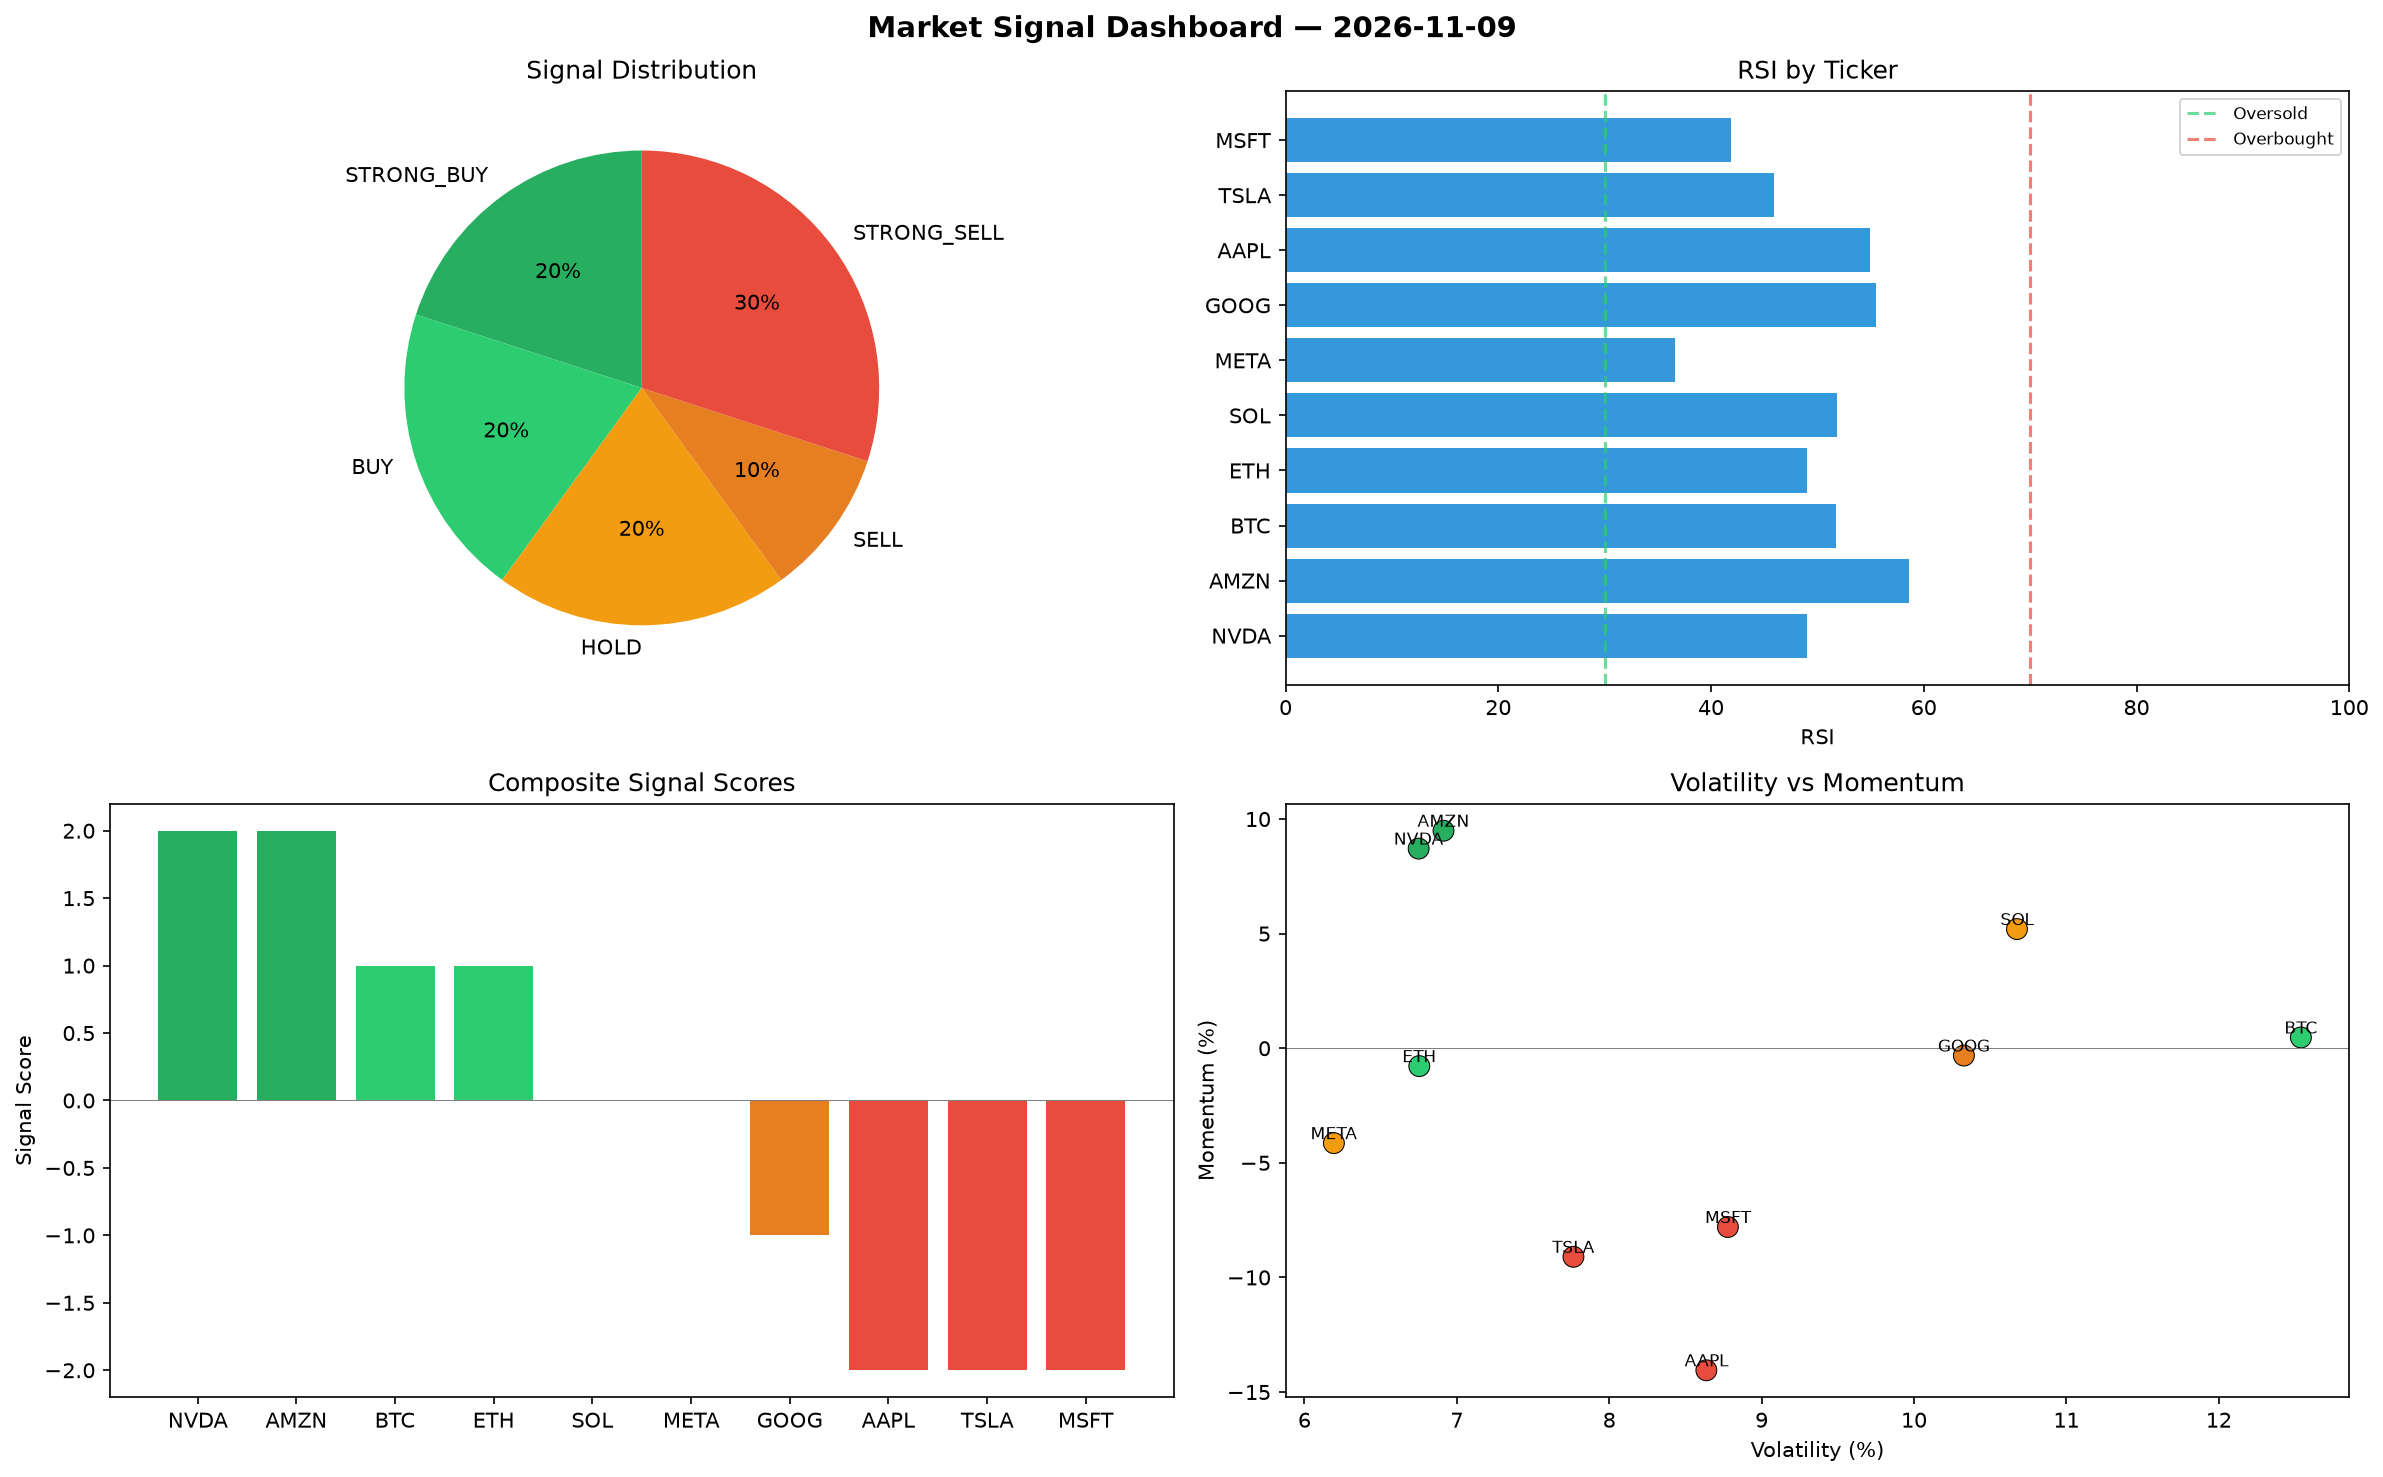
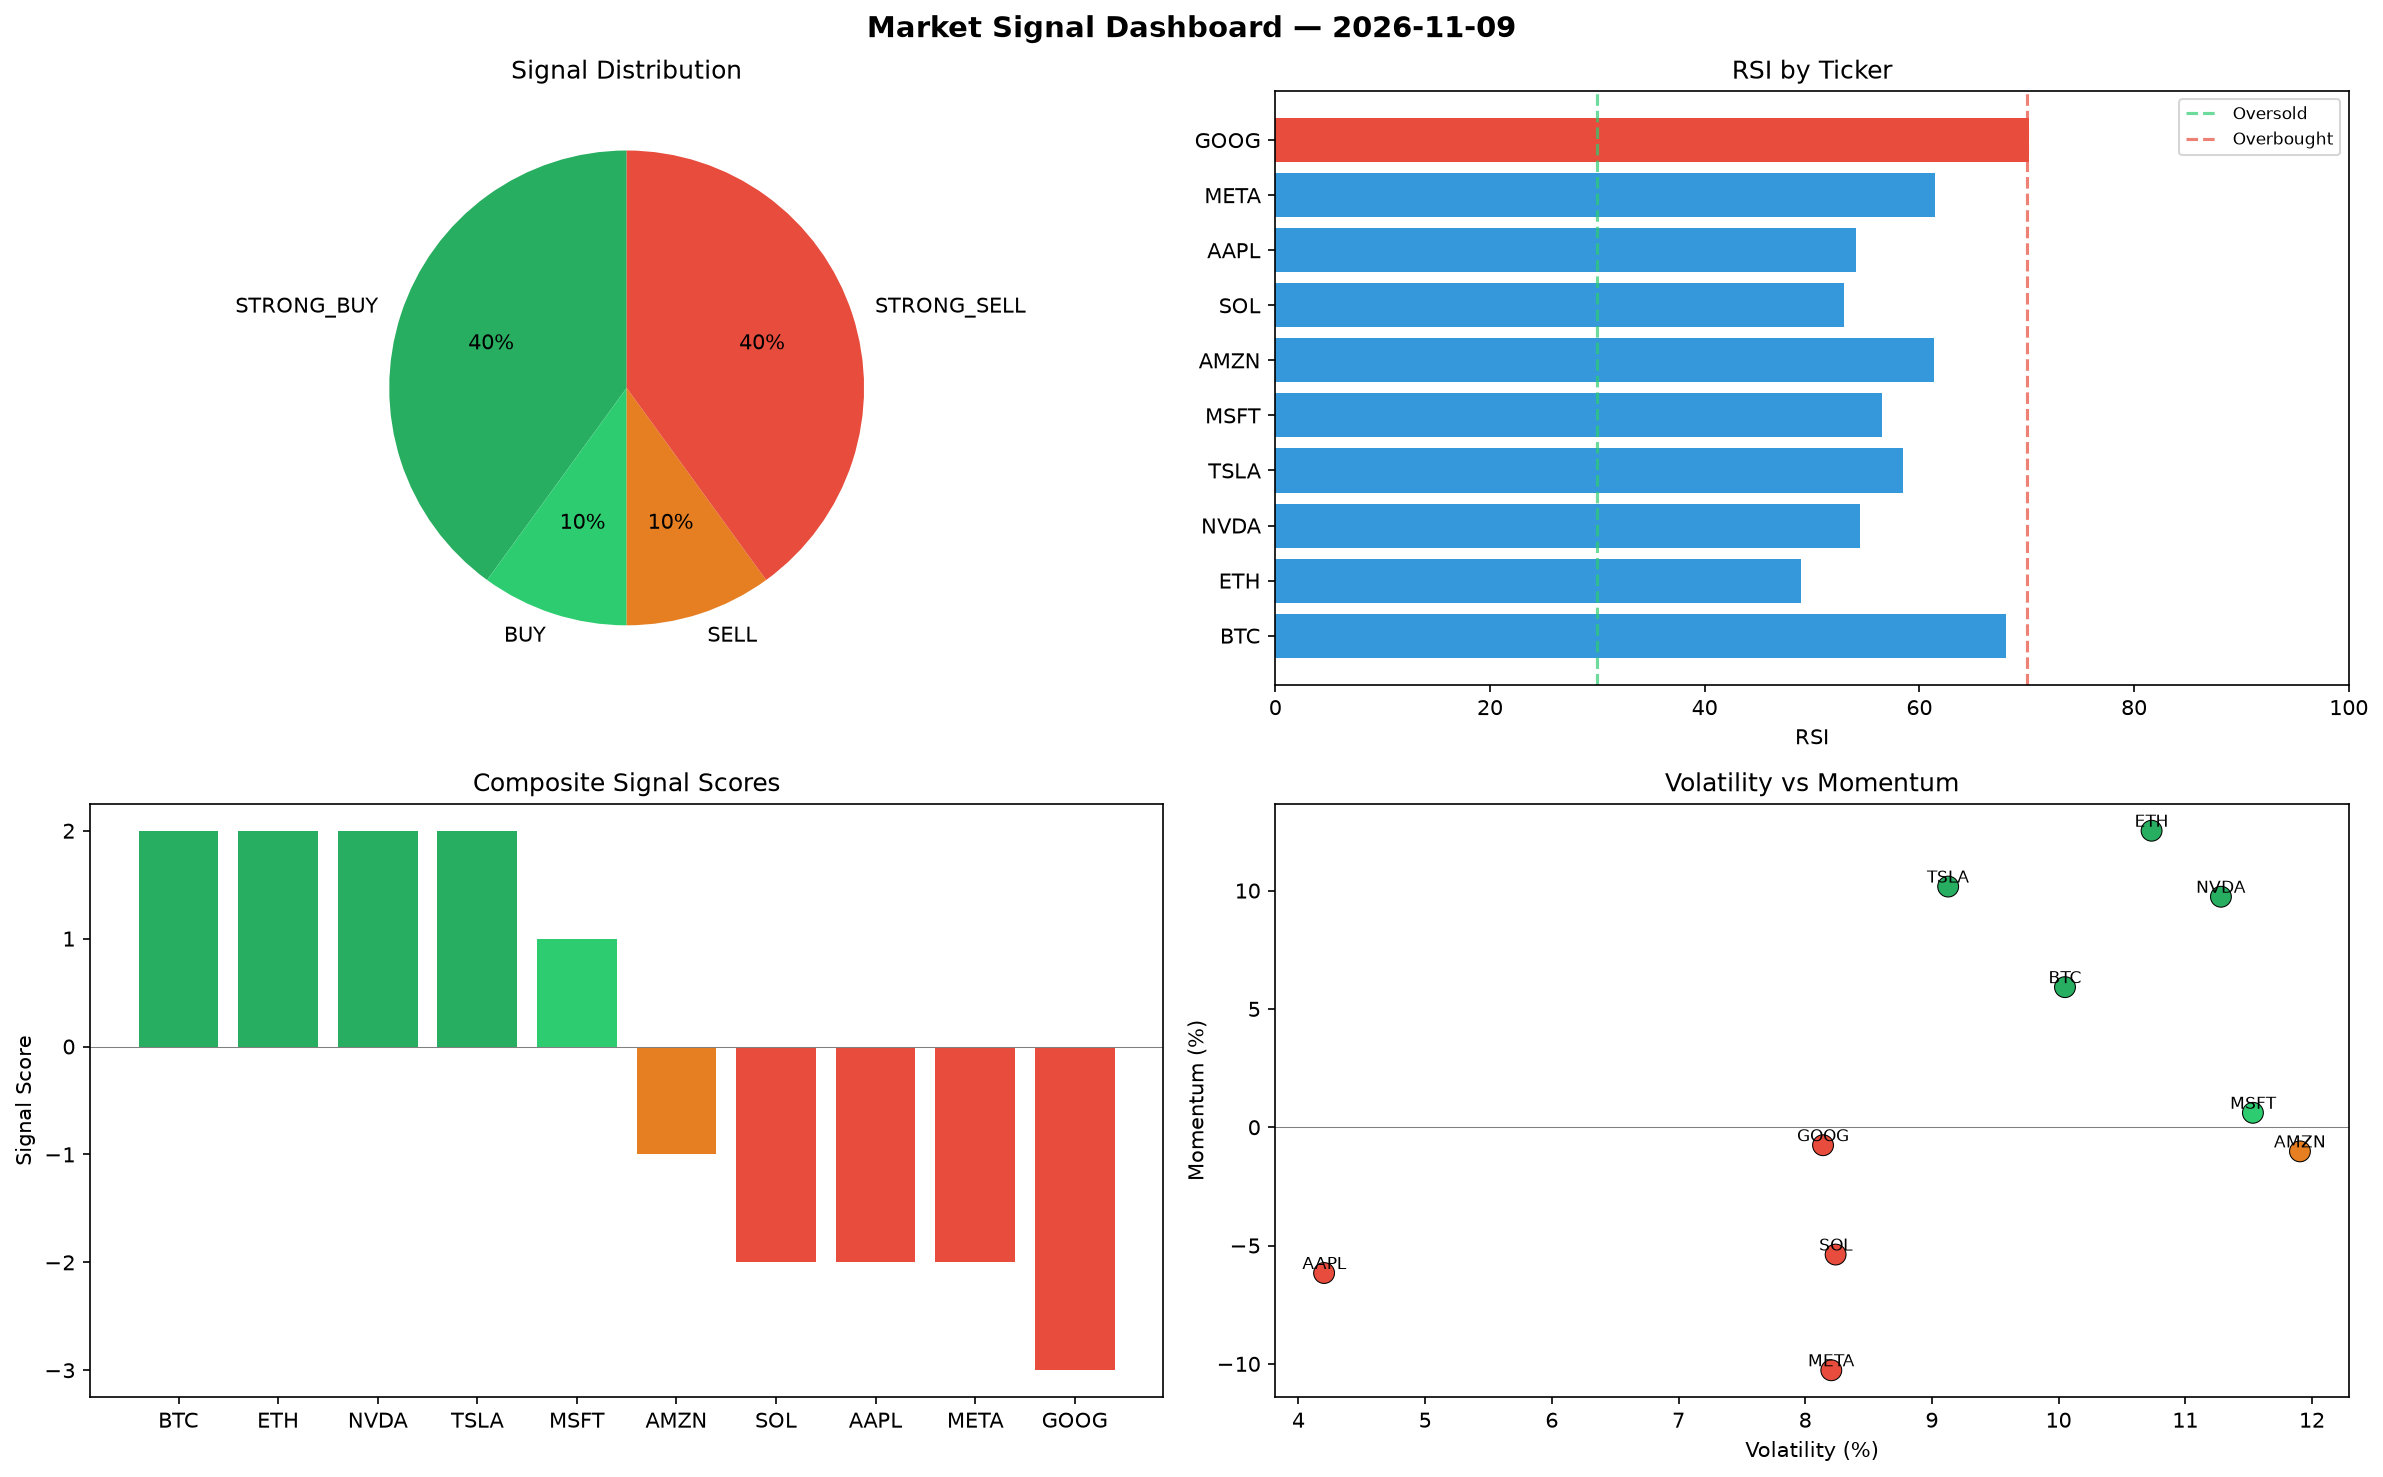
automated-bots: market signals 2026-11-09T23:30

diff --git a/logs/2026-11-09.md b/logs/2026-11-09.md
@@ -1,6 +1,6 @@
 # Market Signal Report — 2026-11-09
 
-**Run ID:** `cceab8938c` | **Buy:** 4 | **Sell:** 4 | **Hold:** 2
+**Run ID:** `2f0fd684aa` | **Buy:** 5 | **Sell:** 5 | **Hold:** 0
 
 ![Dashboard](2026-11-09_dashboard.png)
 
@@ -8,28 +8,28 @@
 
 | Ticker | Price | Signal | Score | RSI | Momentum | Confidence |
 |--------|-------|--------|-------|-----|----------|------------|
-| NVDA | $1869.03 | **STRONG_BUY** | 2 | 49.06 | 0.0871 | 0.5 |
-| AMZN | $1225.83 | **STRONG_BUY** | 2 | 58.64 | 0.0949 | 0.5 |
-| BTC | $3301.34 | **BUY** | 1 | 51.71 | 0.0047 | 0.25 |
-| ETH | $3967.36 | **BUY** | 1 | 48.99 | -0.0078 | 0.25 |
-| SOL | $2932.78 | **HOLD** | 0 | 51.8 | 0.052 | 0.0 |
-| META | $4598.22 | **HOLD** | 0 | 36.64 | -0.0414 | 0.0 |
-| GOOG | $4457.72 | **SELL** | -1 | 55.53 | -0.0032 | 0.25 |
-| AAPL | $1661.55 | **STRONG_SELL** | -2 | 54.9 | -0.1405 | 0.5 |
-| TSLA | $4356.76 | **STRONG_SELL** | -2 | 45.91 | -0.091 | 0.5 |
-| MSFT | $4448.2 | **STRONG_SELL** | -2 | 41.86 | -0.078 | 0.5 |
+| BTC | $4134.59 | **STRONG_BUY** | 2 | 68.08 | 0.0592 | 0.5 |
+| ETH | $2375.64 | **STRONG_BUY** | 2 | 48.98 | 0.1253 | 0.5 |
+| NVDA | $892.14 | **STRONG_BUY** | 2 | 54.43 | 0.0974 | 0.5 |
+| TSLA | $496.44 | **STRONG_BUY** | 2 | 58.49 | 0.1017 | 0.5 |
+| MSFT | $1528.9 | **BUY** | 1 | 56.49 | 0.0061 | 0.25 |
+| AMZN | $1544.11 | **SELL** | -1 | 61.33 | -0.0102 | 0.25 |
+| SOL | $217.23 | **STRONG_SELL** | -2 | 52.95 | -0.0538 | 0.5 |
+| AAPL | $2977.78 | **STRONG_SELL** | -2 | 54.06 | -0.0616 | 0.5 |
+| META | $2307.44 | **STRONG_SELL** | -2 | 61.46 | -0.1027 | 0.5 |
+| GOOG | $1353.71 | **STRONG_SELL** | -3 | 70.2 | -0.0076 | 0.75 |
 
 ## Delta vs Yesterday
 
 | Ticker | Today | Yesterday | Price Change | Signal Changed |
 |--------|-------|-----------|-------------|----------------|
-| NVDA | STRONG_BUY | HOLD | 📉 -48.77% | ⚠ YES |
-| AMZN | STRONG_BUY | STRONG_BUY | 📉 -63.0% | — |
-| BTC | BUY | HOLD | 📉 -23.37% | ⚠ YES |
-| ETH | BUY | HOLD | 📈 219.98% | ⚠ YES |
-| SOL | HOLD | STRONG_SELL | 📉 -16.12% | ⚠ YES |
-| META | HOLD | HOLD | 📈 31.35% | — |
-| GOOG | SELL | STRONG_BUY | 📉 -9.11% | ⚠ YES |
-| AAPL | STRONG_SELL | STRONG_SELL | 📉 -65.32% | — |
-| TSLA | STRONG_SELL | STRONG_BUY | 📉 -13.88% | ⚠ YES |
-| MSFT | STRONG_SELL | HOLD | 📈 58.94% | ⚠ YES |
+| BTC | STRONG_BUY | HOLD | 📉 -4.03% | ⚠ YES |
+| ETH | STRONG_BUY | HOLD | 📈 91.6% | ⚠ YES |
+| NVDA | STRONG_BUY | HOLD | 📉 -75.55% | ⚠ YES |
+| TSLA | STRONG_BUY | STRONG_BUY | 📉 -90.19% | — |
+| MSFT | BUY | HOLD | 📉 -45.37% | ⚠ YES |
+| AMZN | SELL | STRONG_BUY | 📉 -53.39% | ⚠ YES |
+| SOL | STRONG_SELL | STRONG_SELL | 📉 -93.79% | — |
+| AAPL | STRONG_SELL | STRONG_SELL | 📉 -37.84% | — |
+| META | STRONG_SELL | HOLD | 📉 -34.09% | ⚠ YES |
+| GOOG | STRONG_SELL | STRONG_BUY | 📉 -72.4% | ⚠ YES |
